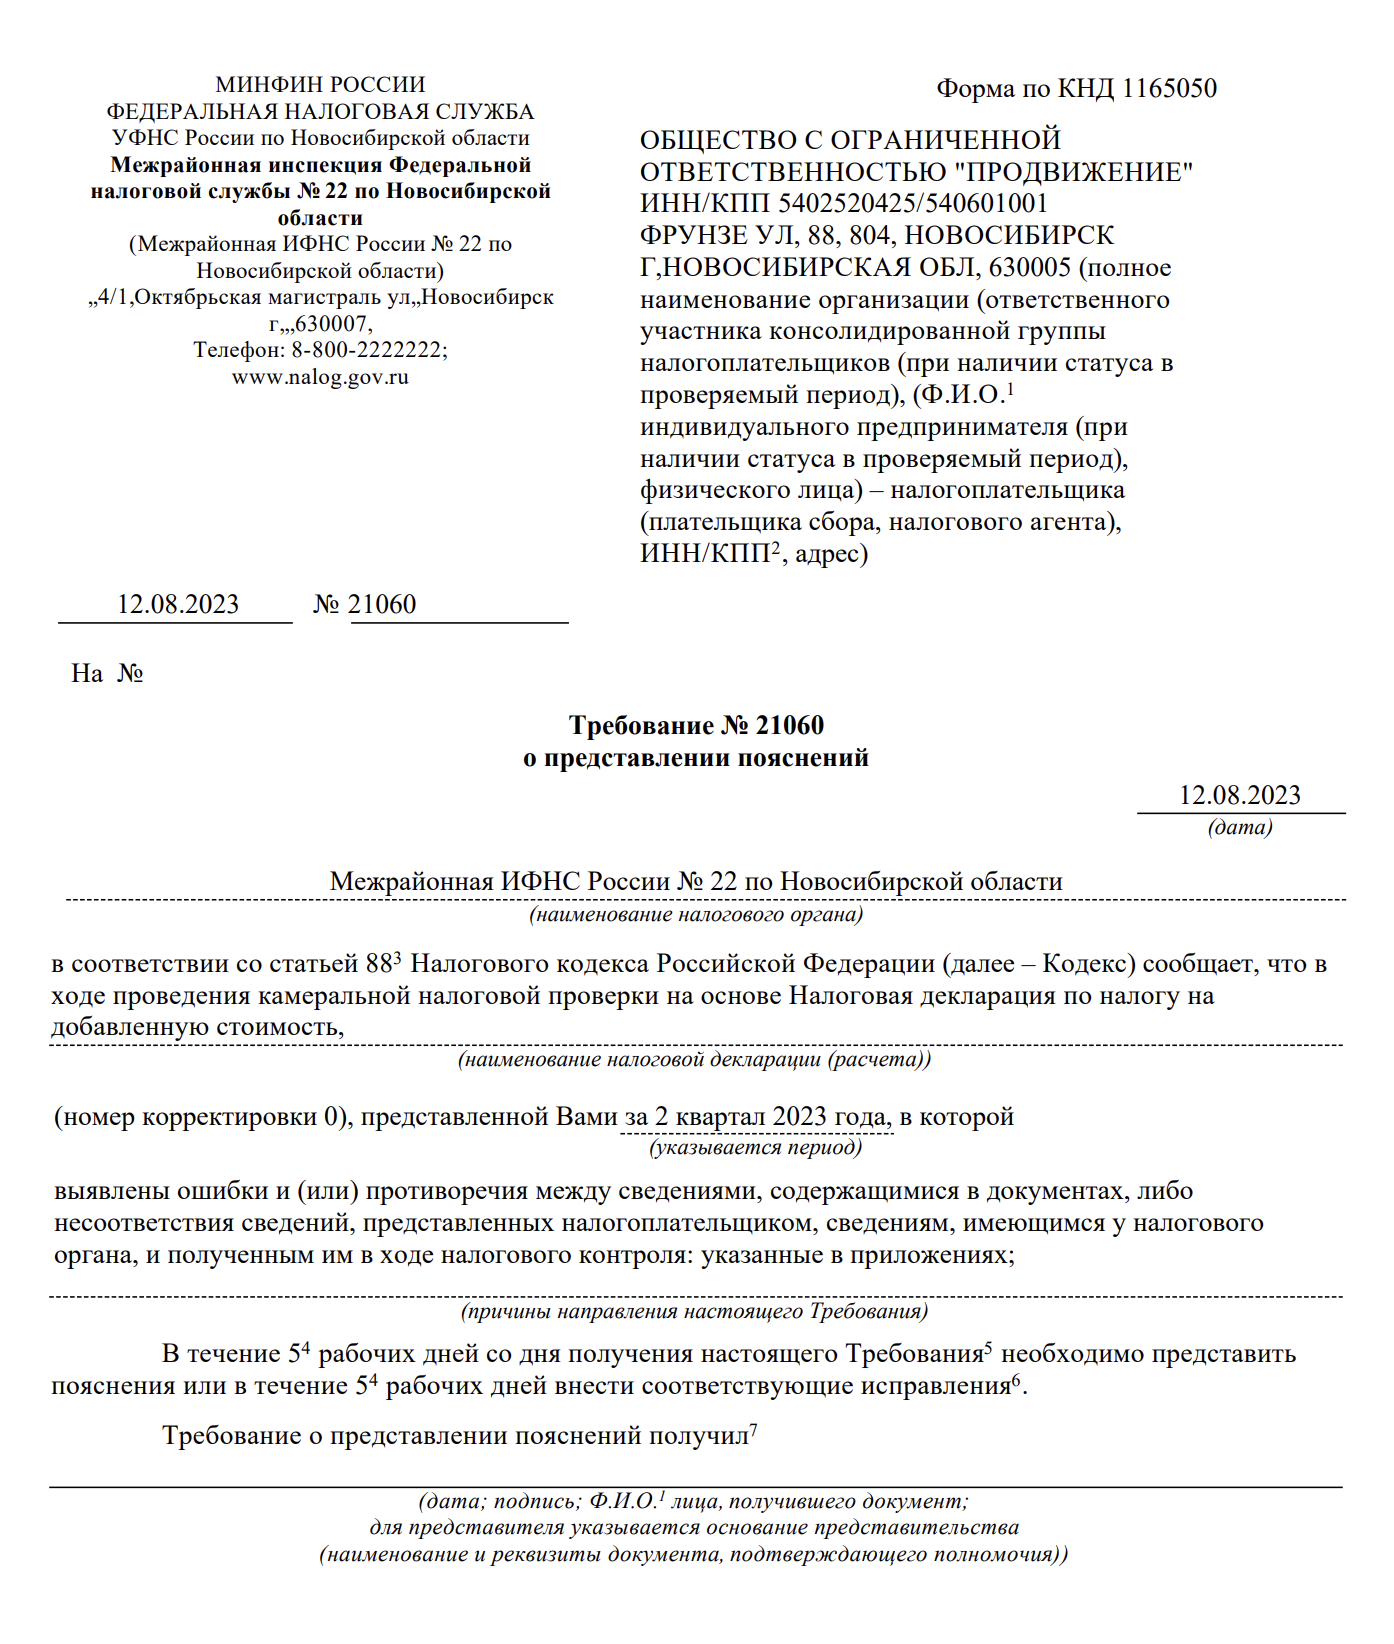
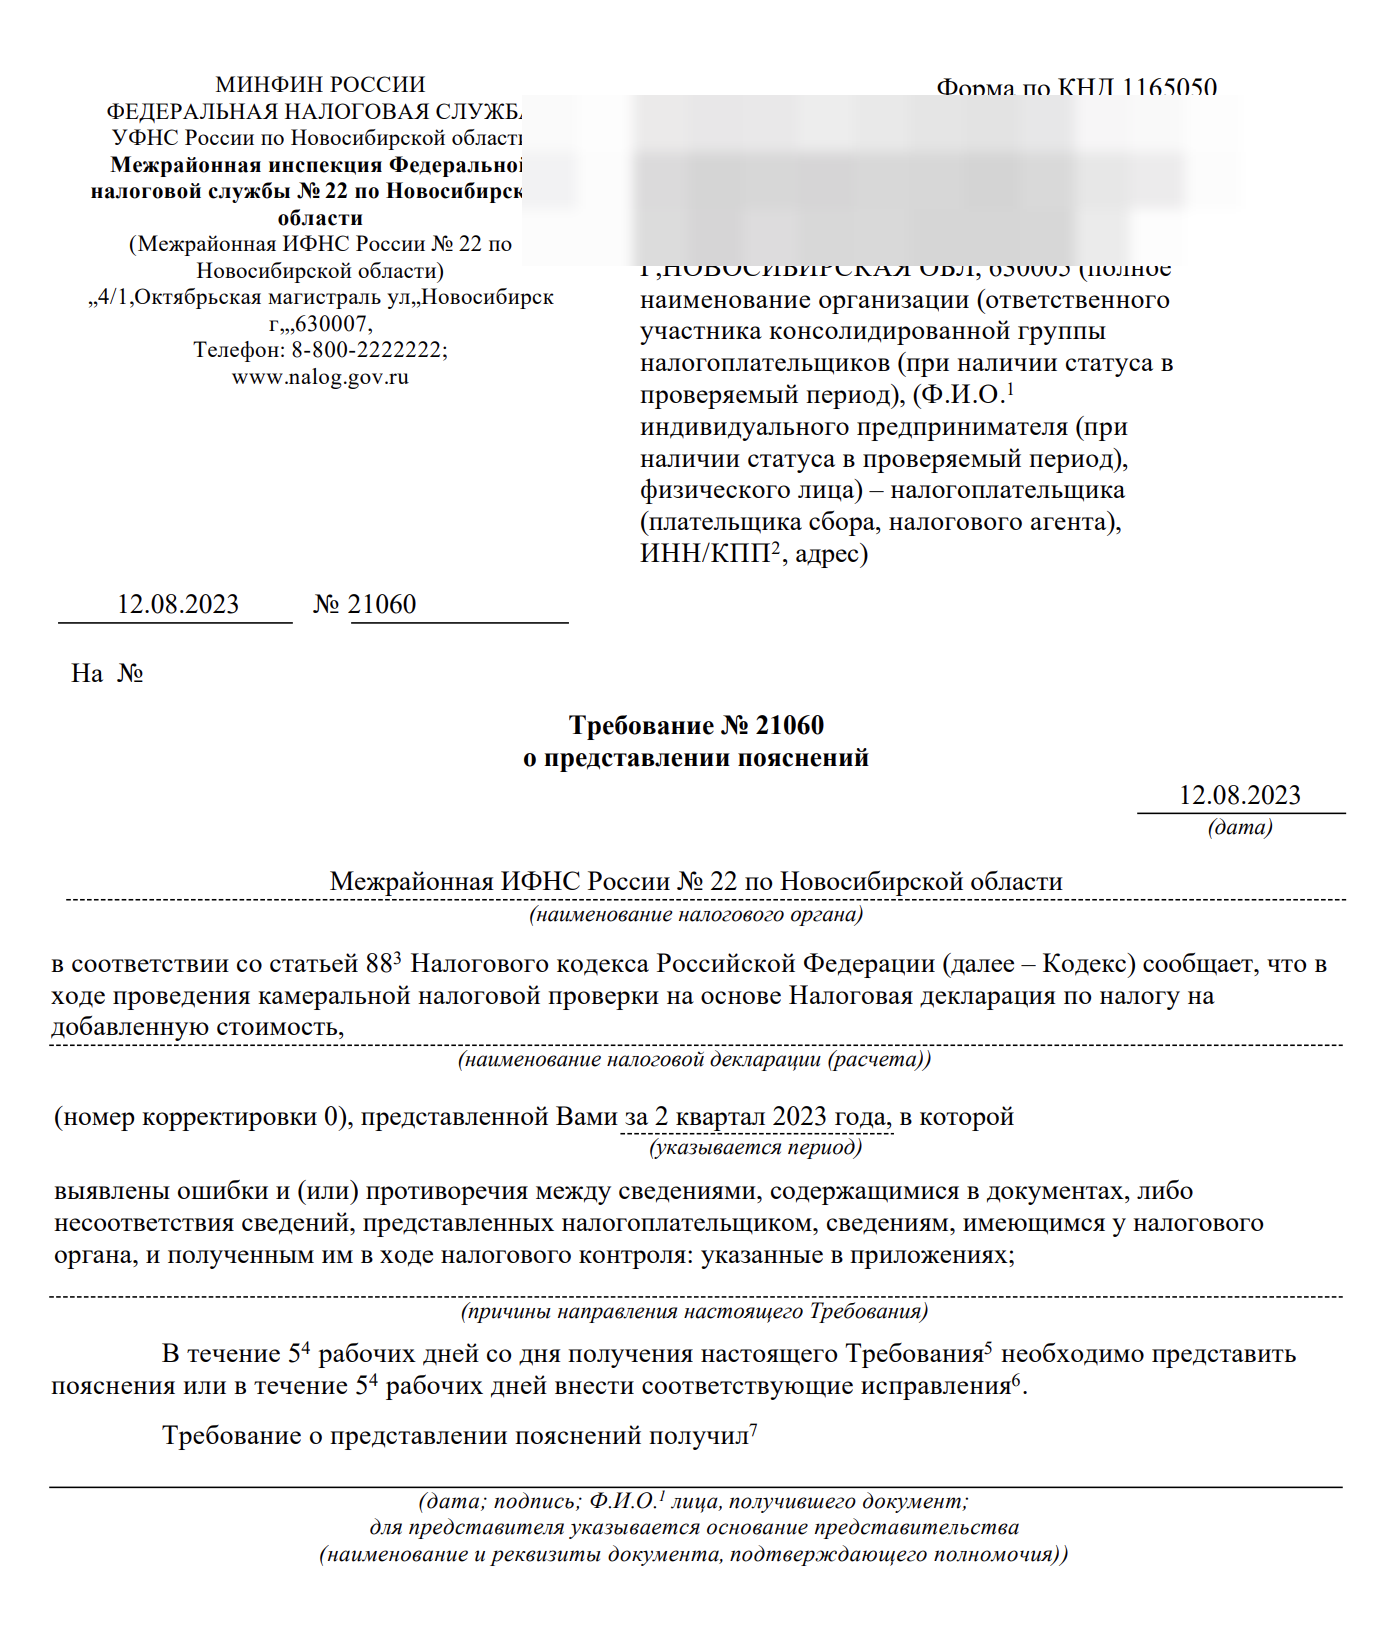
fix(hero): ретушь юрлица/ИНН впечатана в скан (не CSS), H1 «Пришло требование из ФНС?» одной строкой

Changed region(s): [[0.4319, 0.031, 0.8637, 0.1861], [0.3702, 0.0931, 0.401, 0.1241]]

diff --git a/apps/web/src/views/marketing/ui/sections/hero.tsx b/apps/web/src/views/marketing/ui/sections/hero.tsx
@@ -17,8 +17,10 @@ export function Hero() {
         <div className="mkt-hero-copy">
           <p className="mkt-eyebrow">{HERO.badge}</p>
           <h1>
-            Пришло требование из <span className="mkt-urgent">ФНС</span>? Получи в течении 24 часов
-            ответ от эксперта, который сам работал в налоговой системе
+            <span className="mkt-h1-line">
+              Пришло требование из <span className="mkt-urgent">ФНС</span>?
+            </span>{' '}
+            Получи в течении 24 часов ответ от эксперта из налоговой системы
           </h1>
           <p className="mkt-hero-lead">{HERO.subtitle}</p>
           <div className="mkt-hero-actions">
@@ -39,7 +41,6 @@ export function Hero() {
               alt="Скан требования ФНС о представлении пояснений"
               priority
             />
-            <span className="mkt-art-mask" aria-hidden="true" />
           </div>
           <span className="mkt-art-tag">Входящее · ФНС</span>
           <span className="mkt-art-stamp">Принято</span>

diff --git a/apps/web/src/views/marketing/ui/marketing.css b/apps/web/src/views/marketing/ui/marketing.css
@@ -311,19 +311,10 @@
   height: auto;
 }
 
-/* Ретушь названия юрлица и ИНН/КПП — эффект из preview/style-preview-kimi.html,
-   область расширена до строки ИНН/КПП; адрес, номер и дата читаемы */
-.mkt-art-mask {
-  position: absolute;
-  left: 42.5%;
-  top: 7%;
-  width: 46.5%;
-  height: 8.2%;
-  z-index: 2;
-  backdrop-filter: blur(5px);
-  -webkit-backdrop-filter: blur(5px);
-  background: rgba(255, 255, 255, 0.12);
-  pointer-events: none;
+/* Ретушь юрлица и ИНН/КПП впечатана в /trebov.png (пикселизация + блюр) —
+   CSS-маска больше не нужна. Адрес, номер и дата остаются читаемыми. */
+.mkt-h1-line {
+  white-space: nowrap; /* «Пришло требование из ФНС?» всегда одной строкой */
 }
 
 .mkt-art-tag {
